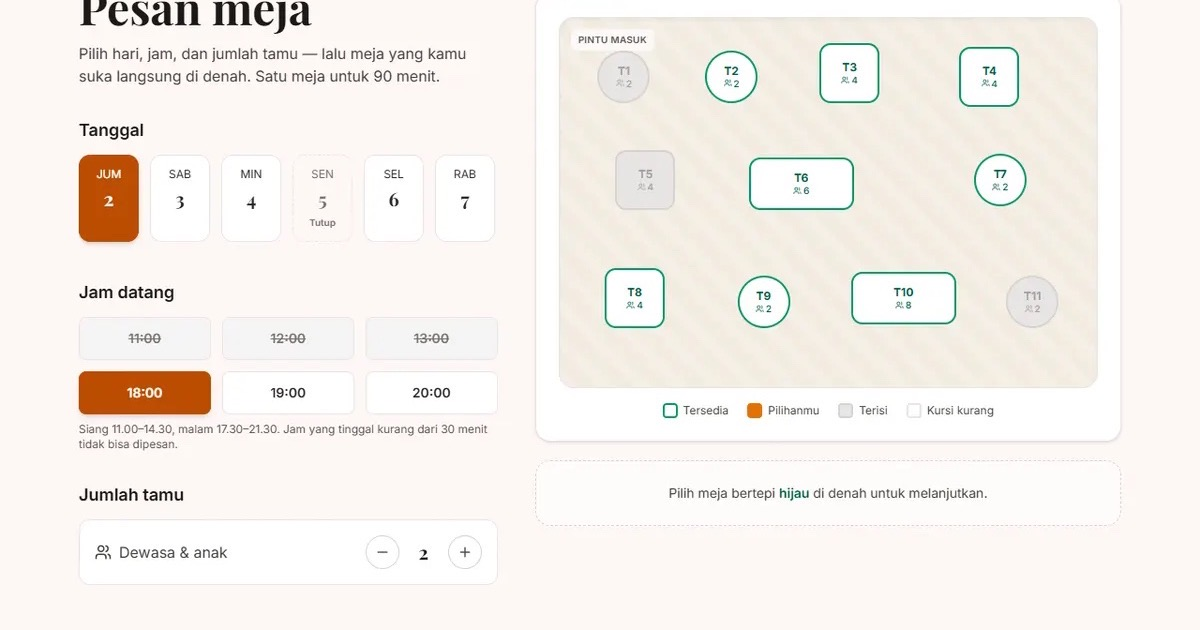
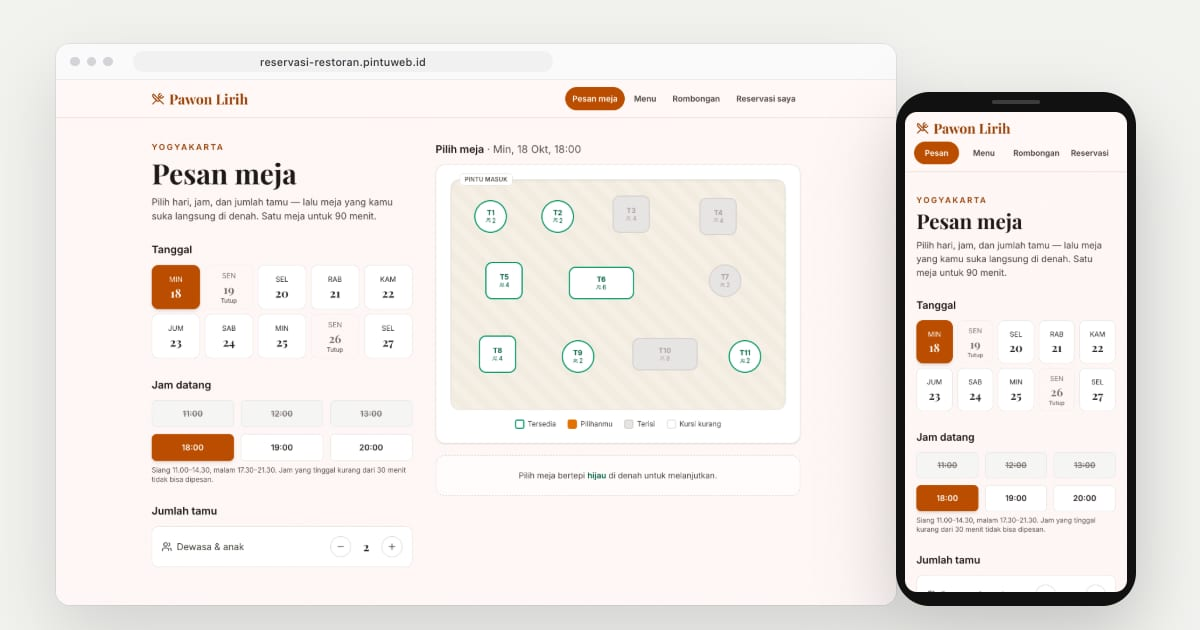
Noelle: potret ilustrasi persona dan mockup studi kasus
- Hero & about: foto stok meja kerja beresolusi rendah diganti gambar garis
  hitam-putih Noelle buatan sendiri (sumber SVG di design/), teks alt bermakna.
- Enam studi kasus: tangkapan demo live (18 Okt) dalam bingkai peramban + ponsel
  bergaya situs; og/work/*.jpg dan og.jpg ditangkap ulang.
- Varian WebP statis diregenerasi; README mencatat sumber gambar.

diff --git a/components/Hero.js b/components/Hero.js
@@ -30,10 +30,10 @@ export default function Hero() {
         </ul>
       </div>
 
-      {/* Kanan: foto meja kerja + keterangan */}
+      {/* Kanan: potret ilustrasi + keterangan */}
       <div className="flex flex-col items-center md:items-end text-center md:text-right">
         <div className="w-[220px] sm:w-[260px] h-[320px] sm:h-[380px] relative rounded-xl overflow-hidden shadow-xl mb-4 bg-gray-200">
-          <Image src={profile.avatar} alt="" fill priority fetchPriority="high" sizes="(max-width: 640px) 216px, 260px" className="object-cover" />
+          <Image src={profile.avatar} alt={profile.avatarAlt} fill priority fetchPriority="high" sizes="(max-width: 640px) 220px, 260px" className="object-cover" />
         </div>
         <p className="text-sm text-gray-500">
           <span className="font-semibold text-black">{profile.name}</span> · {profile.location}

diff --git a/app/work/[slug]/page.js b/app/work/[slug]/page.js
@@ -36,7 +36,7 @@ export default async function CaseStudy({ params }) {
       <section className="bg-white px-6 pb-20">
         <div className="mx-auto grid max-w-6xl gap-10 lg:grid-cols-[1.6fr_1fr]">
           <div className="relative aspect-[4/3] overflow-hidden rounded-xl bg-gray-200 shadow-md">
-            <Image src={p.image} alt={`Screenshot of ${p.title}`} fill priority fetchPriority="high" sizes="(max-width:1024px) 100vw, 60vw" className="object-cover object-top" />
+            <Image src={p.image} alt={`Screens from the ${p.title} live demo`} fill priority fetchPriority="high" sizes="(max-width:1024px) 100vw, 60vw" className="object-cover object-top" />
           </div>
           <aside className="h-fit rounded-xl border border-gray-200 bg-gray-50 p-6">
             <dl className="space-y-4 text-sm">

diff --git a/app/about/page.js b/app/about/page.js
@@ -18,7 +18,7 @@ export default function AboutPage() {
         <div className="mx-auto grid max-w-7xl items-center gap-12 md:grid-cols-2">
           <Reveal>
             <div className="relative mx-auto aspect-[4/5] w-full max-w-sm overflow-hidden rounded-2xl shadow-xl md:mx-0">
-              <Image src={profile.about} alt="" fill sizes="(max-width:768px) 100vw, 50vw" className="object-cover" />
+              <Image src={profile.about} alt={profile.aboutAlt} fill sizes="(max-width:768px) 100vw, 384px" className="object-cover" />
             </div>
           </Reveal>
           <Reveal delay={0.1}>

diff --git a/lib/data.js b/lib/data.js
@@ -8,6 +8,8 @@ export const profile = {
   "email": "hello@noelle.example",
   "avatar": "/images/hero.webp",
   "about": "/images/about.webp",
+  "avatarAlt": "Line drawing of Noelle with a black bob and a striped top, in front of a to-do list sketch",
+  "aboutAlt": "Line drawing of Noelle at her laptop, interface sketches on sticky notes behind her",
   "intro": "Hi, I’m Noelle — a UI/UX designer who makes everyday tools calmer.",
   "bioShort": "I design productivity and booking tools that respect people’s time — from the first sketch to the last edge case.",
   "bio": [

diff --git a/README.md b/README.md
@@ -34,9 +34,12 @@ Persona fiktif Noelle, desainer produk yang tenang dan rapi. Kartu putih bersudu
 
 ## Gambar & kredit
 
-- `public/images/work/*.webp` — tangkapan layar demo live di tabel atas (karya koleksi ini sendiri).
-- `public/images/hero.webp` — "Office Work" oleh Jeffrey Betts, [StockSnap](https://stocksnap.io/photo/office-work-O6LGQYEPFT), lisensi CC0.
-- `public/images/about.webp` — "Man Work" oleh Burst, [StockSnap](https://stocksnap.io/photo/man-work-DZ7DC58DSV), lisensi CC0.
+- `public/images/work/*.webp` — mockup bingkai peramban + ponsel (tiga ponsel untuk halaman tautan dan undangan) berisi
+  tangkapan layar demo live di tabel atas, diambil 18 Okt 2026; bingkainya digambar dengan gaya situs ini.
+  `public/og/work/*.jpg` adalah versi 1200×630-nya untuk pratinjau tautan.
+- `public/images/hero.webp`, `public/images/about.webp` — ilustrasi potret persona fiktif Noelle buatan sendiri
+  (gaya gambar garis hitam-putih); sumber SVG-nya di `design/`. Bukan wajah orang sungguhan dan tidak memakai foto stok.
+- `public/og.jpg` — tangkapan beranda 1200×630.
 
 ## Teknologi
 
